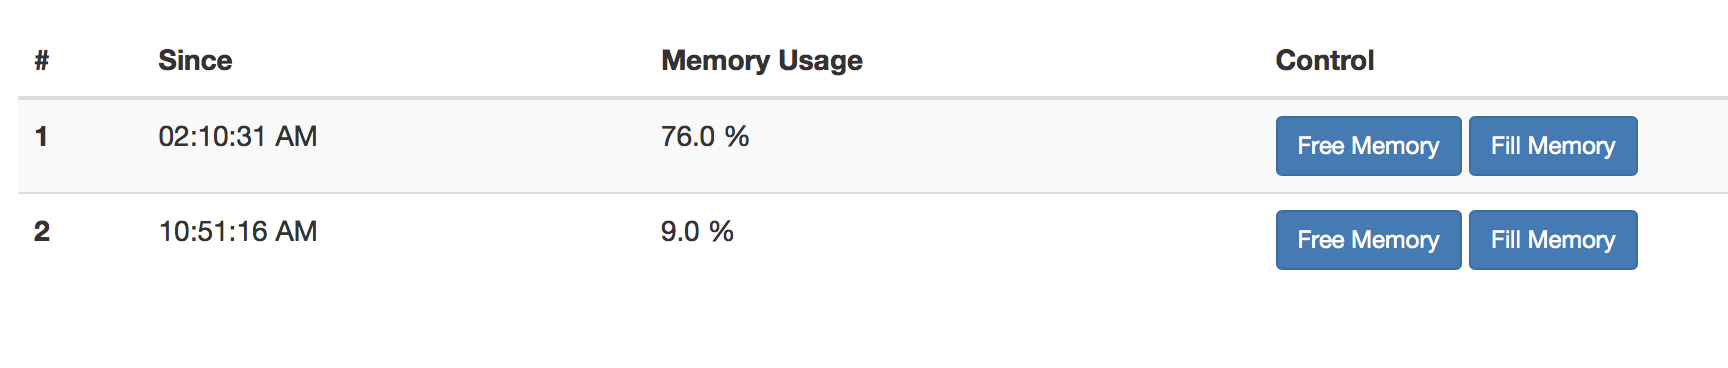
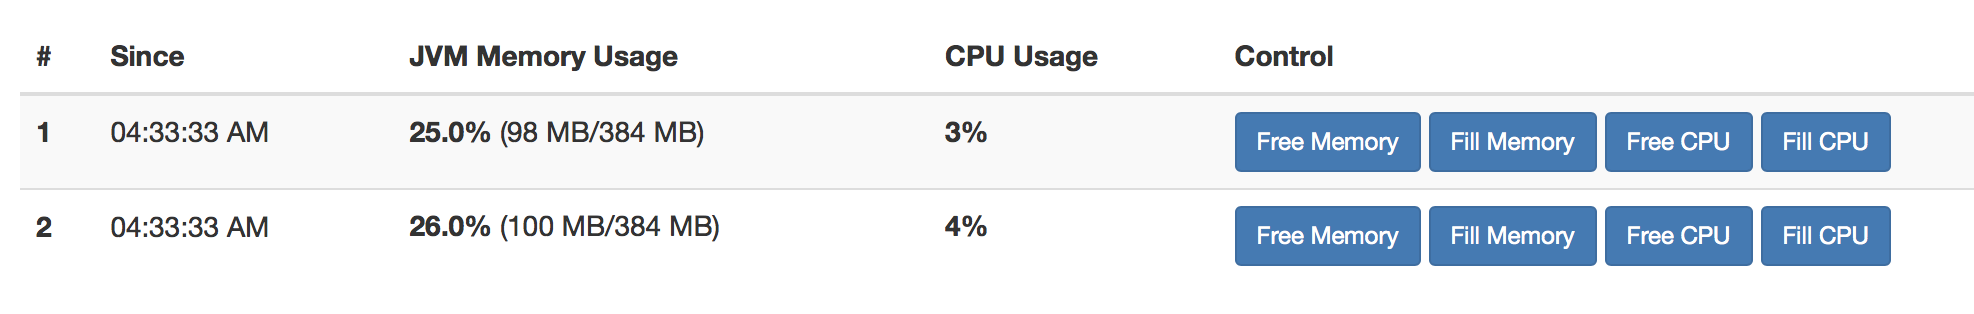
Add CPU scaling notes.

diff --git a/README.md b/README.md
@@ -1,28 +1,24 @@
-# PCF Memory Scaling Demo
+# PCF Memory and CPU Scaling Demo
 
-Application demonstrating memory based scaling using PCF.
+Application demonstrating memory and CPU based scaling using PCF.
 
 ## Demo Steps
 
 1. Build and deploy to PCF
 
 ```sh
-gradle build
-```
-
-```sh
-cf push
+gradle build && cf push
 ```
 
 Note -- you may need to run *cf push* with **--random-route** if the route already exists
 
-2. Bind a AutoScaling Service to your Application, and configure it for Container Memory Scaling.
+2. Bind a AutoScaling Service to your Application, and configure it for Container Memory or CPU Scaling.
 
-> Note - additional instances are scaled up when the average container memory amount exceeds the High Memory amount set in settings.  Not that this is total container memory and not allocated JVM memory.
+> Note - for memory scaling additional instances are scaled up when the average container memory amount exceeds the High Memory amount set in settings.  Not that this is total container memory and not allocated JVM memory.
 
 <img src="img/scaling.png" width="400">
 
-3. Increase JVM Memory (by clicking on Fill buttons) , until total container memory hits threshold.
+3. Increase JVM Memory / or CPU Load (by clicking on Fill buttons).
 
 <img src="img/gui.png" width="750">
 
@@ -31,4 +27,7 @@ Note -- you may need to run *cf push* with **--random-route** if the route alrea
 1. Usage of X-CF-APP-INSTANCE header to route to specific containers instead of standard round-robin.
 
 2. **api/info** endpoint for getting application information.
+
+3. JVM Garbage Collection (and freeing of RAM) isn't instant (can take a few seconds)
+
 
